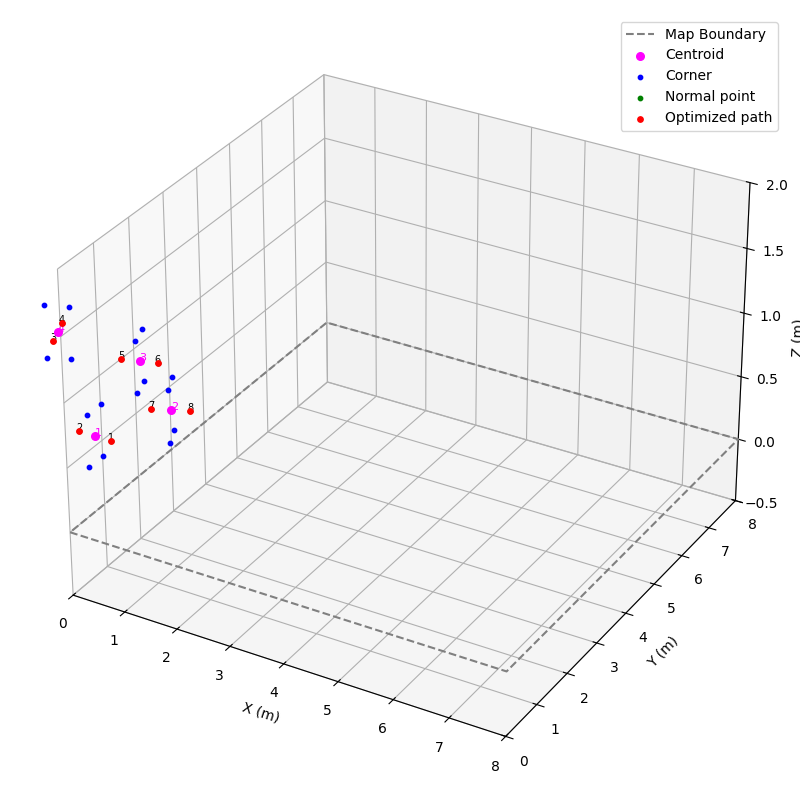
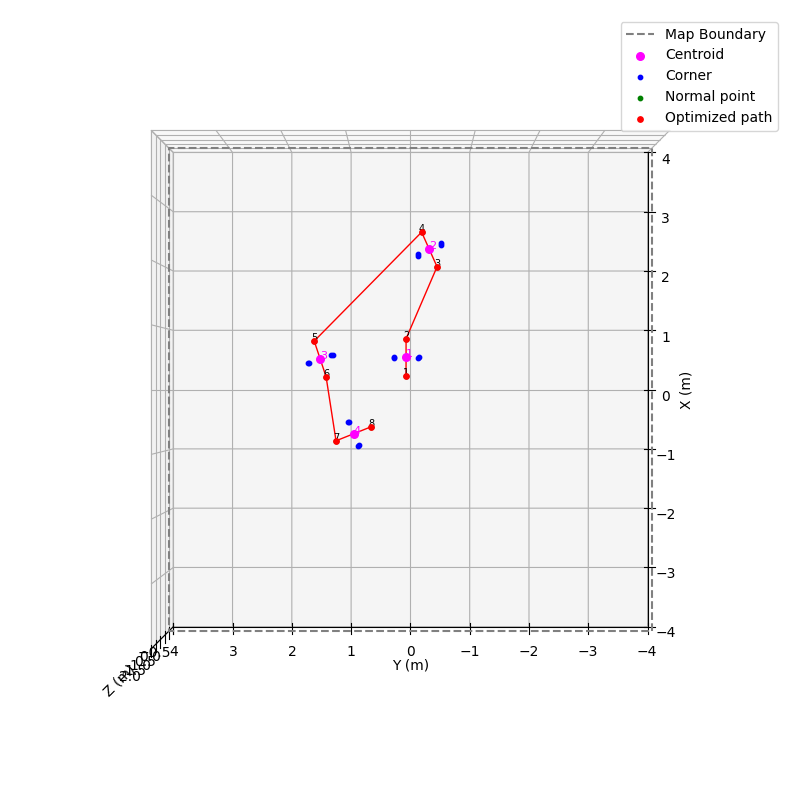
Updated simple planner such that gate order is preserved (gate 1 -> 2 -> 3 -> 4) + improved gate visualization

diff --git a/simple_planner.py b/simple_planner.py
@@ -96,81 +96,84 @@ def csv_to_waypoints(csv_file_path):
 
     return wp, gate_ids
 
+from itertools import product
+import numpy as np
+
 def sort_wp_min_energy(wp, gate_ids, angle_penalty_weight=ANGLE_PENALTY):
     """
-    Finds the most energy-efficient order to visit a series of gates, where:
-    - Each gate has 2 normal points (entry/exit) that must be consecutive, but can flip.
-    - The order of gates can be permuted.
-    - The path starts at either normal point 1 or 2 (1st gate)
-    - Energy = distance + angle penalties (to avoid sharp turns).
-    
+    Finds the most energy-efficient flipping of normal points per gate,
+    while keeping the gate order fixed (gate 1 → gate 2 → ...).
+
     Args:
-        wp (list): Waypoints. List of N_GATES tuples, 1 (np.array(normal_point_1), np.array(normal_point_2)) for each gate.
-        gate_ids (list of int): Parallel list to wp, gate_ids[i] is the gate ID for wp[i].
-        gate_to_idx (dict): Mapping from gate ID to indices of its normal points in wp.
-        angle_penalty_weight (float): Weight applied to angle penalties relative to distance.
+        wp (list): Waypoints. List of 2*N_GATES np.array pairs [(np1, np2), ...].
+        gate_ids (list of int): Gate IDs for each waypoint in wp (same order).
+        angle_penalty_weight (float): Weight applied to angle penalties.
 
     Returns:
-        best_path (list): List of np.array waypointspoints representing the optimal path.
-        best_indices (list): List of indices (int) representing the updated order of waypoints.
-        best_wp_gate_ids (list of int): Gate IDs, parallel to 'best_indices', showing which gate each waypoint belongs to.
-        min_cost (float): Total energy cost (distance + angle penalties).
+        best_path (list): List of np.array representing the optimal path.
+        best_indices (list of int): Indices representing the waypoint order.
+        best_wp_gate_ids (list of int): Gate IDs aligned with best_indices.
+        min_cost (float): Total energy cost (distance + angle penalty).
     """
 
-    num_gates = len(wp) // 2  # Number of gates
-    gate_indices = [ (2*i, 2*i+1) for i in range(num_gates) ]  # Gate groupings
+    num_gates = len(wp) // 2
+    gate_indices = [(2*i, 2*i+1) for i in range(num_gates)]  # Fixed gate order
 
     best_path = None
     best_indices = None    
     best_wp_gate_ids = None
     min_cost = float('inf')
 
-    start_pair = (0, 1)  # Starting pair of indices (normal points of the first gate)
+    start_pair = (0, 1)  # Starting must be one of gate 1's normal points
 
-    for gate_order in permutations(gate_indices):
-        for flip_config in product([False, True], repeat=num_gates):
-            path = []
-            indices = []
-            for i, gate in enumerate(gate_order):
-                idx1, idx2 = gate
-                if flip_config[i]:
-                    path.extend([wp[idx2], wp[idx1]])      # Flip order
-                    indices.extend([idx2, idx1])
-                else:
-                    path.extend([wp[idx1], wp[idx2]])      # Normal order
-                    indices.extend([idx1, idx2])
+    for flip_config in product([False, True], repeat=num_gates):
+        path = []
+        indices = []
 
-            # Ensure starting point is waypoint 0 or 1 (Gate 1's normal points)
-            if indices[0] not in start_pair:
-                continue
+        for i, (idx1, idx2) in enumerate(gate_indices):
+            if flip_config[i]:
+                path.extend([wp[idx2], wp[idx1]])  # flipped
+                indices.extend([idx2, idx1])
+            else:
+                path.extend([wp[idx1], wp[idx2]])  # normal
+                indices.extend([idx1, idx2])
 
-            # Compute distance + angle penalties
-            dist = sum(np.linalg.norm(path[i+1] - path[i]) for i in range(len(path)-1))
-            angle_penalty = 0
-            for i in range(1, len(path)-1):
-                vec1 = path[i] - path[i-1]
-                vec2 = path[i+1] - path[i]
-                if np.linalg.norm(vec1) > 1e-6 and np.linalg.norm(vec2) > 1e-6:
-                    cos_theta = np.dot(vec1, vec2) / (np.linalg.norm(vec1) * np.linalg.norm(vec2))
-                    angle_penalty += (1 - cos_theta)
+        # Enforce start at gate 1's normal point
+        if indices[0] not in start_pair:
+            continue
 
-            cost = dist + angle_penalty_weight * angle_penalty
+        # Compute cost: distance + angle penalty
+        dist = sum(np.linalg.norm(path[i+1] - path[i]) for i in range(len(path)-1))
 
-            if cost < min_cost:
-                min_cost = cost
-                best_path = path
-                best_indices = indices
-                best_wp_gate_ids = [gate_ids[i] for i in indices]
+        angle_penalty = 0
+        for i in range(1, len(path)-1):
+            vec1 = path[i] - path[i-1]
+            vec2 = path[i+1] - path[i]
+            if np.linalg.norm(vec1) > 1e-6 and np.linalg.norm(vec2) > 1e-6:
+                cos_theta = np.dot(vec1, vec2) / (np.linalg.norm(vec1) * np.linalg.norm(vec2))
+                angle_penalty += (1 - cos_theta)
+
+        cost = dist + angle_penalty_weight * angle_penalty
+
+        if cost < min_cost:
+            min_cost = cost
+            best_path = path
+            best_indices = indices
+            best_wp_gate_ids = [gate_ids[i] for i in indices]
 
     return best_path, best_indices, best_wp_gate_ids, min_cost
 
+
 def visualize_gates(GATES_DATA, best_path=None):
+    import matplotlib.pyplot as plt
+    from mpl_toolkits.mplot3d import Axes3D
+
     fig = plt.figure(figsize=(8, 8))
     ax = fig.add_subplot(111, projection='3d')
 
-    # Plot map plane
-    xx = [0, 8, 8, 0, 0]
-    yy = [0, 0, 8, 8, 0]
+    # Plot map plane (centered at origin)
+    xx = [-4, 4, 4, -4, -4]
+    yy = [-4, -4, 4, 4, -4]
     zz = [0]*5
     ax.plot(xx, yy, zz, color='gray', linestyle='--', label='Map Boundary')
 
@@ -194,6 +197,7 @@ def visualize_gates(GATES_DATA, best_path=None):
         plotted["corner"] = True
 
         # Plot normal points
+        # Plot normal points
         for np_pt in normal_pts:
             ax.scatter(*np_pt, color='green', s=10, label='Normal point' if not plotted["normal"] else "")
         plotted["normal"] = True
@@ -204,16 +208,22 @@ def visualize_gates(GATES_DATA, best_path=None):
             ax.scatter(*wp, color='red', s=15, label='Optimized path' if idx == 0 else "")
             ax.text(*wp, str(idx + 1), color='black', fontsize=7, ha='center')
 
+        # Draw a line connecting all normal points in the optimized path
+        xline = [p[0] for p in best_path]
+        yline = [p[1] for p in best_path]
+        zline = [p[2] for p in best_path]
+        ax.plot(xline, yline, zline, color='red', linewidth=1.0, linestyle='-')
+
     # Axes labels and limits
     ax.set_xlabel('X (m)')
     ax.set_ylabel('Y (m)')
     ax.set_zlabel('Z (m)')
-    ax.set_xlim(0, 8)
-    ax.set_ylim(0, 8)
-    ax.set_zlim(-0.5, 2.0)  # allow grid below zero
+    ax.set_xlim(-4, 4)
+    ax.set_ylim(-4, 4)
+    ax.set_zlim(-0.5, 2.0)
 
-    # Grid: force full visibility
-    ax.grid(True)
+    # Top-down view (X up, Y left)
+    ax.view_init(elev=90, azim=180)
 
     # Clean legend
     handles, labels = ax.get_legend_handles_labels()
@@ -222,8 +232,10 @@ def visualize_gates(GATES_DATA, best_path=None):
 
     plt.tight_layout()
     plt.savefig("plot_gates_simple_planner.png")
-    # plt.close()
     plt.show()
+
+
+
 
 def extract_best_path(csv_path="gates_info_example.csv"):
     """
